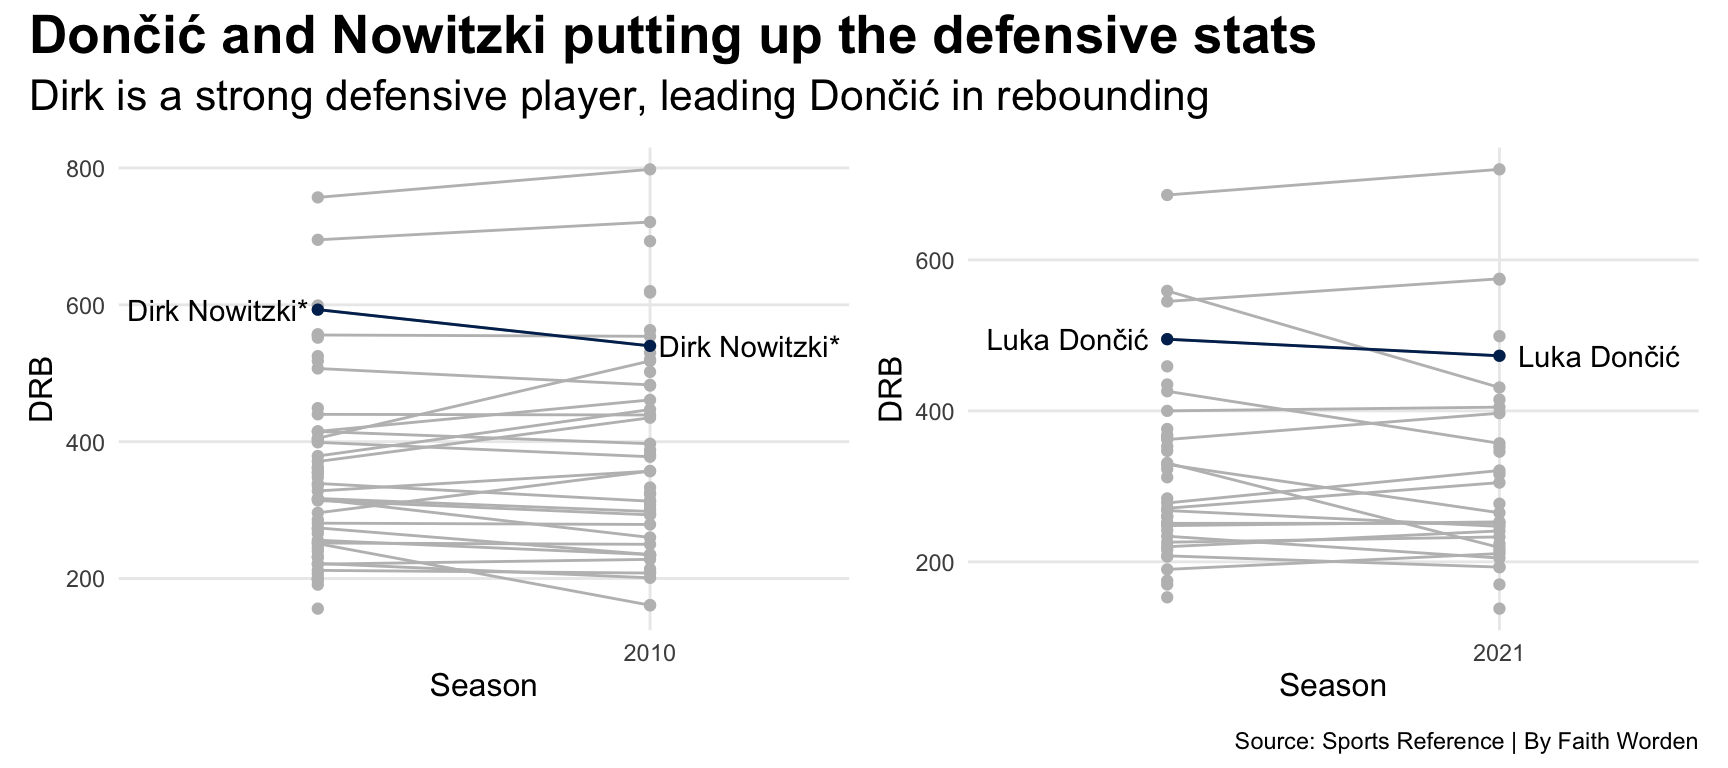
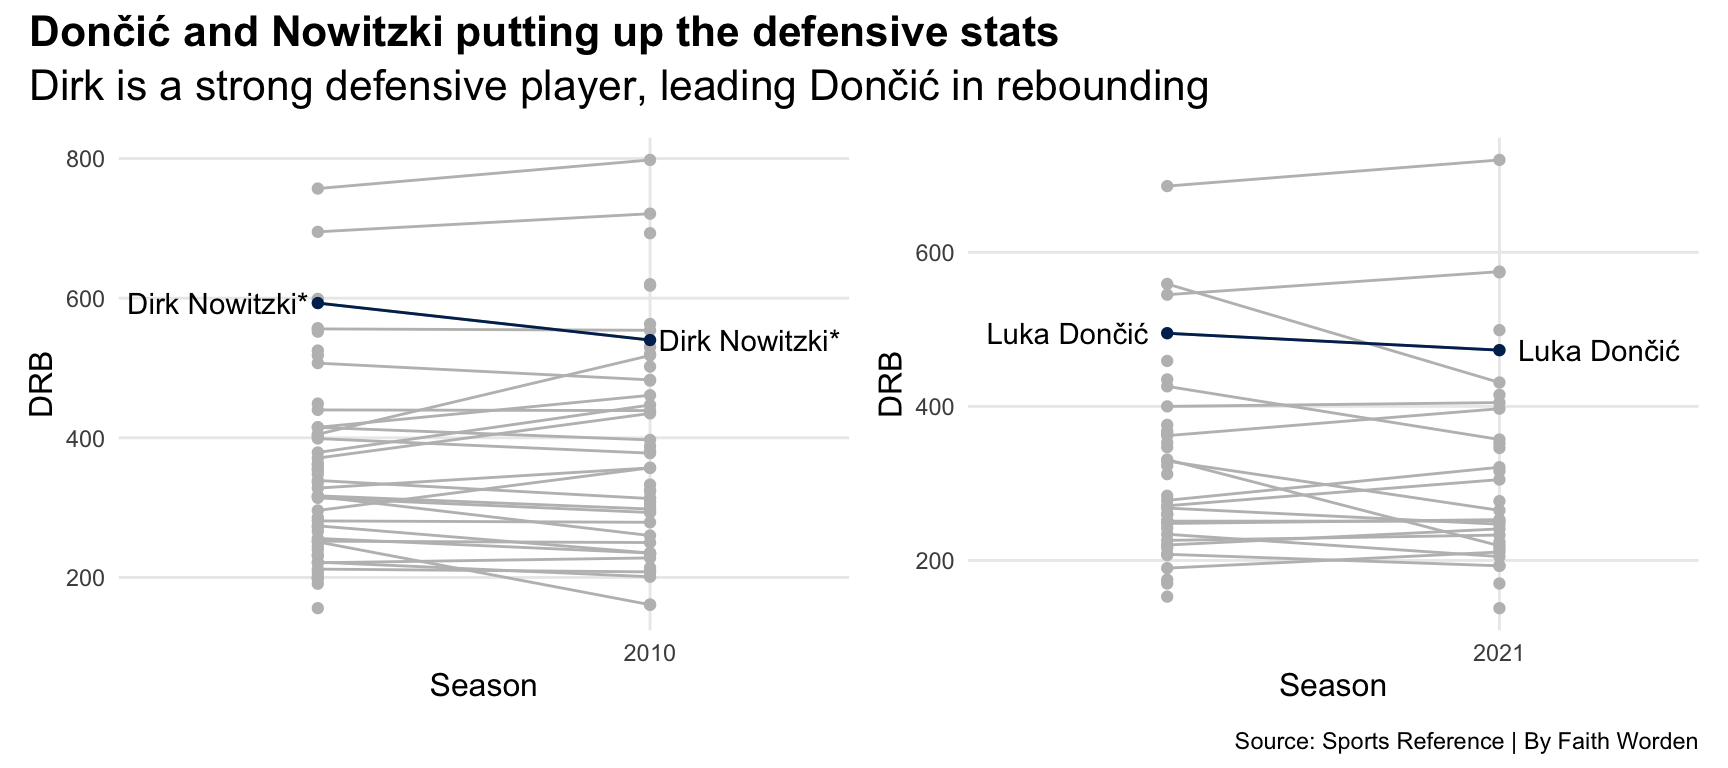
fontchanges

diff --git a/posts/mavericks-is-luka-the-new-dirk/index.html b/posts/mavericks-is-luka-the-new-dirk/index.html
@@ -208,7 +208,7 @@ pre > code.sourceCode > span > a:first-child::before { text-decoration: underlin
 <span id="cb1-25"><a href="#cb1-25" aria-hidden="true" tabindex="-1"></a><span class="st">his first season with the Mavericks."</span>,  <span class="at">caption=</span><span class="st">"Source: Sports Reference | By Faith Worden"</span>) <span class="sc">+</span></span>
 <span id="cb1-26"><a href="#cb1-26" aria-hidden="true" tabindex="-1"></a>  <span class="fu">theme_minimal</span> () <span class="sc">+</span></span>
 <span id="cb1-27"><a href="#cb1-27" aria-hidden="true" tabindex="-1"></a>  <span class="fu">theme</span>(</span>
-<span id="cb1-28"><a href="#cb1-28" aria-hidden="true" tabindex="-1"></a>  <span class="at">plot.title =</span> <span class="fu">element_text</span>(<span class="at">size =</span> <span class="dv">14</span>, <span class="at">face =</span> <span class="st">"bold"</span>),</span>
+<span id="cb1-28"><a href="#cb1-28" aria-hidden="true" tabindex="-1"></a>  <span class="at">plot.title =</span> <span class="fu">element_text</span>(<span class="at">size =</span> <span class="dv">16</span>, <span class="at">face =</span> <span class="st">"bold"</span>),</span>
 <span id="cb1-29"><a href="#cb1-29" aria-hidden="true" tabindex="-1"></a>    <span class="at">axis.title =</span> <span class="fu">element_text</span>(<span class="at">size =</span> <span class="dv">10</span>), </span>
 <span id="cb1-30"><a href="#cb1-30" aria-hidden="true" tabindex="-1"></a>    <span class="at">plot.subtitle =</span> <span class="fu">element_text</span>(<span class="at">size=</span><span class="dv">12</span>), </span>
 <span id="cb1-31"><a href="#cb1-31" aria-hidden="true" tabindex="-1"></a>    <span class="at">panel.grid.minor =</span> <span class="fu">element_blank</span>(),</span>
@@ -302,7 +302,7 @@ pre > code.sourceCode > span > a:first-child::before { text-decoration: underlin
 <span id="cb2-77"><a href="#cb2-77" aria-hidden="true" tabindex="-1"></a>    <span class="at">caption =</span> <span class="st">"Source: Sports Reference | By Faith Worden"</span></span>
 <span id="cb2-78"><a href="#cb2-78" aria-hidden="true" tabindex="-1"></a>  ) <span class="sc">&amp;</span> </span>
 <span id="cb2-79"><a href="#cb2-79" aria-hidden="true" tabindex="-1"></a>  <span class="fu">theme</span>(</span>
-<span id="cb2-80"><a href="#cb2-80" aria-hidden="true" tabindex="-1"></a>    <span class="at">plot.title =</span> <span class="fu">element_text</span>(<span class="at">size =</span> <span class="dv">20</span>, <span class="at">face =</span> <span class="st">"bold"</span>),</span>
+<span id="cb2-80"><a href="#cb2-80" aria-hidden="true" tabindex="-1"></a>    <span class="at">plot.title =</span> <span class="fu">element_text</span>(<span class="at">size =</span> <span class="dv">16</span>, <span class="at">face =</span> <span class="st">"bold"</span>),</span>
 <span id="cb2-81"><a href="#cb2-81" aria-hidden="true" tabindex="-1"></a>    <span class="at">axis.title =</span> <span class="fu">element_text</span>(<span class="at">size =</span> <span class="dv">12</span>), </span>
 <span id="cb2-82"><a href="#cb2-82" aria-hidden="true" tabindex="-1"></a>    <span class="at">plot.subtitle =</span> <span class="fu">element_text</span>(<span class="at">size=</span><span class="dv">16</span>), </span>
 <span id="cb2-83"><a href="#cb2-83" aria-hidden="true" tabindex="-1"></a>    <span class="at">panel.grid.minor =</span> <span class="fu">element_blank</span>()</span>
@@ -335,7 +335,7 @@ pre > code.sourceCode > span > a:first-child::before { text-decoration: underlin
 <span id="cb3-17"><a href="#cb3-17" aria-hidden="true" tabindex="-1"></a>     <span class="at">subtitle=</span><span class="st">"Luka's putting up great numbers, but don't give him </span></span>
 <span id="cb3-18"><a href="#cb3-18" aria-hidden="true" tabindex="-1"></a><span class="st">all the credit yet."</span>) <span class="sc">+</span></span>
 <span id="cb3-19"><a href="#cb3-19" aria-hidden="true" tabindex="-1"></a>   <span class="fu">theme</span>(</span>
-<span id="cb3-20"><a href="#cb3-20" aria-hidden="true" tabindex="-1"></a>    <span class="at">plot.title =</span> <span class="fu">element_text</span>(<span class="at">size =</span> <span class="dv">14</span>, <span class="at">face =</span> <span class="st">"bold"</span>),</span>
+<span id="cb3-20"><a href="#cb3-20" aria-hidden="true" tabindex="-1"></a>    <span class="at">plot.title =</span> <span class="fu">element_text</span>(<span class="at">size =</span> <span class="dv">16</span>, <span class="at">face =</span> <span class="st">"bold"</span>),</span>
 <span id="cb3-21"><a href="#cb3-21" aria-hidden="true" tabindex="-1"></a>    <span class="at">axis.title =</span> <span class="fu">element_text</span>(<span class="at">size =</span> <span class="dv">10</span>),</span>
 <span id="cb3-22"><a href="#cb3-22" aria-hidden="true" tabindex="-1"></a>    <span class="at">axis.title.y =</span> <span class="fu">element_blank</span>(),</span>
 <span id="cb3-23"><a href="#cb3-23" aria-hidden="true" tabindex="-1"></a>    <span class="at">plot.subtitle =</span> <span class="fu">element_text</span>(<span class="at">size=</span><span class="dv">12</span>), </span>

diff --git a/index.html b/index.html
@@ -165,7 +165,7 @@ ul.task-list li input[type="checkbox"] {
 
 <div class="quarto-listing quarto-listing-container-default" id="listing-listing">
 <div class="list quarto-listing-default">
-<div class="quarto-post image-right" data-index="0" data-categories="sports,data,code" data-listing-date-sort="1701410400000" data-listing-file-modified-sort="1701661485370" data-listing-date-modified-sort="NaN" data-listing-reading-time-sort="7">
+<div class="quarto-post image-right" data-index="0" data-categories="sports,data,code" data-listing-date-sort="1701410400000" data-listing-file-modified-sort="1701661734708" data-listing-date-modified-sort="NaN" data-listing-reading-time-sort="7">
 <div class="thumbnail">
 <p><a href="./posts/mavericks-is-luka-the-new-dirk/index.html"> <img src="./posts/mavericks-is-luka-the-new-dirk/image.png" class="thumbnail-image"> </a></p>
 </div>
